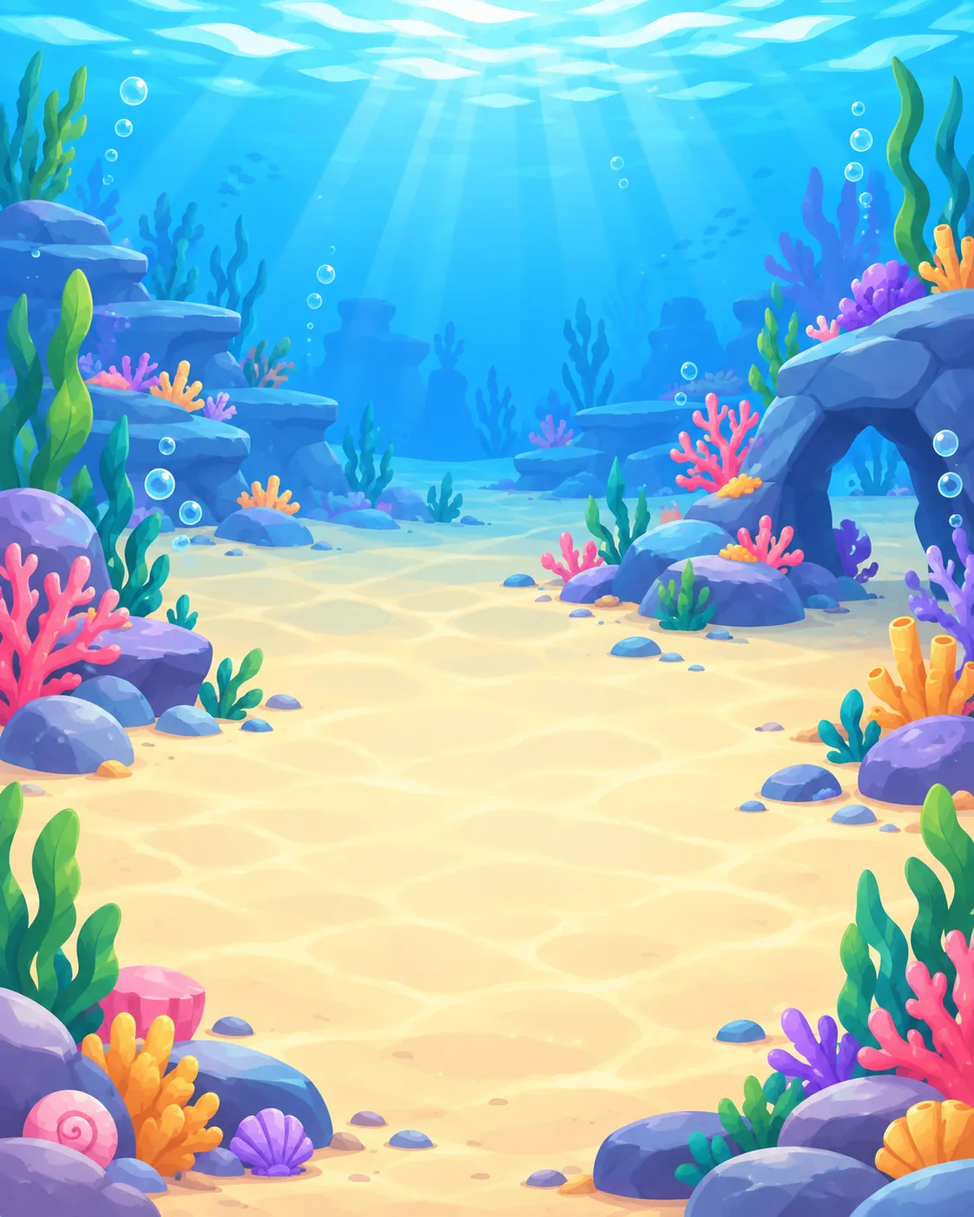
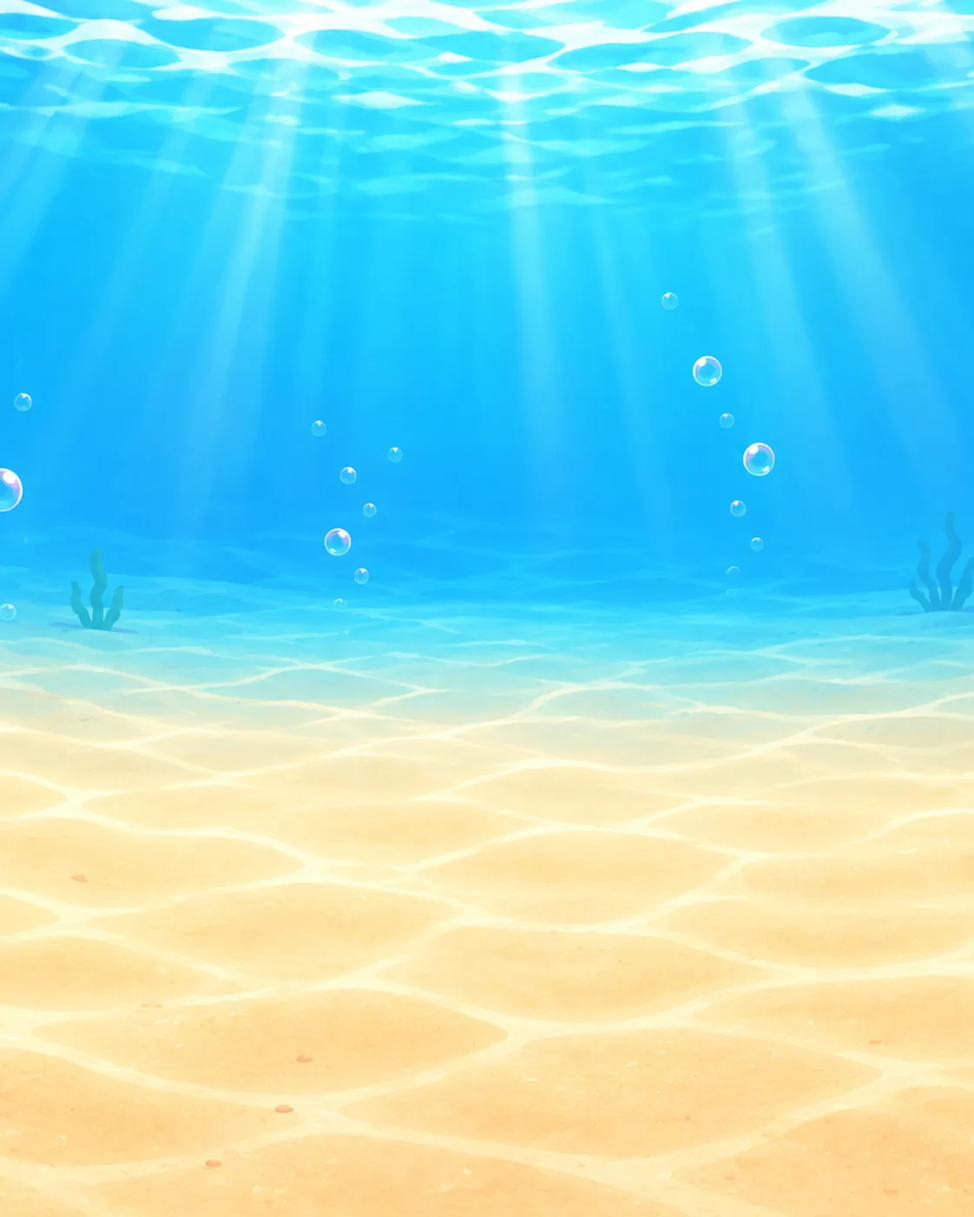
v1.24.0: fase 8C.5 (responsive, resize y usabilidad)
- 8C.5A: Phaser es la única capa que centra el canvas (padres con flex-start / text-align:left).
- 8C.5B.1: landscape bajo compacto en Diferencias, Laberinto, Mi Gatito y Adopción.
- 8C.5C / 8C.5D: Memoria (1/1) y Diferencias (4/5) recuperan su tamaño al redimensionar.
- 8C.5E: Memoria en landscape bajo (canvas 319 px en todos los niveles) y F9.
- 8C.5F: el salto de intro de Caramelo ya no pisa el primer movimiento.
- 8C.5G: nuevo fondo de Ocean, sin peces ni coral (WebP 1122x1402, source en assets-src).
- CLAUDE.md: invariantes responsive, baseline, deuda aceptada (F18) e info de git.

diff --git a/public/styles.css b/public/styles.css
@@ -72,6 +72,36 @@ html {
     align-items: center;
 }
 
+/* 8C.5A: Phaser (Scale.FIT + CENTER_BOTH) ya centra el canvas con margin-left/margin-top. El centrado del
+   padre se sumaba a esos márgenes y corría el canvas (la mitad del margen) a la derecha y hacia abajo.
+   Diferencias, Laberinto y Mi Gatito (8C.5B.1); Memoria usa el text-align de abajo. */
+#diff-game-container, #maze-game-container, #cat-game-container {
+    justify-content: flex-start;
+    align-items: flex-start;
+}
+/* 8C.5D (F3-b): mismo problema que Memoria (8C.5C). Sin alto propio, el padre medía lo que el canvas (con el
+   canvas oculto: 752x0) y FIT usaba ese alto: se achicaba con el tope del .container, pero no volvía a crecer
+   (393x491 → 255x319 → 255x319 en 1366x768). Ahora pide la proporción del canvas lógico (800x1000) sobre el
+   ancho disponible; el tope lo sigue achicando (min-height: 0, flex-shrink) igual que antes. */
+#diff-game-container {
+    aspect-ratio: 4 / 5;
+}
+#memory-game-container {
+    text-align: left; /* el canvas es inline y heredaba text-align: center de .container */
+    /* 8C.5C (F3): el padre no tenía tamaño propio. Su alto era el del canvas, y FIT medía ese alto para
+       dimensionar el canvas (dependencia circular): se achicaba con el tope de 90vh del .container, pero al
+       volver a agrandar la ventana nada pedía más alto y quedaba chico (681.6 → 222 → 237). Ahora pide un
+       cuadrado del ancho disponible (el canvas lógico es 800x800), independiente del canvas, y el flex lo
+       achica si no entra. Mismo patrón que Laberinto (height: 800px), que sí se recuperaba. */
+    width: 100%;
+    max-width: 800px;
+    aspect-ratio: 1 / 1;
+    min-height: 0;
+    display: flex;             /* sin el hueco de línea de un canvas inline */
+    justify-content: flex-start;
+    align-items: flex-start;   /* Phaser sigue siendo el único que centra (8C.5A) */
+}
+
 body {
     font-family: 'Nunito', sans-serif;
     background-color: var(--color-bg);
@@ -1740,4 +1770,77 @@ body.is-home {
     .cat-choice-card { min-height: 70px; padding: 8px 16px; }
     .cat-choice-card .card-icon { font-size: 2.5rem; }
     .cat-choice-card .card-text { font-size: 1.4rem; }
+}
+
+/* --- 8C.5B.1: ADOPCIÓN SIN DESBORDE HORIZONTAL (>= 768px) ---
+   Con `1fr` (mínimo = contenido) las cards eran más anchas que la columna y se salían del contenedor
+   (GRIS/BLANCO en 768, NEGRO en 1366). minmax(0, 1fr) las ajusta al ancho. El contenedor mide como mucho
+   800px, así que 3 columnas nunca entran: a partir de 1024 quedan 2, igual que en tablet. */
+@media (min-width: 768px) {
+    .cat-options { grid-template-columns: repeat(2, minmax(0, 1fr)); }
+}
+@media (min-width: 1024px) {
+    .cat-options { grid-template-columns: repeat(2, minmax(0, 1fr)); }
+}
+
+/* --- 8C.5B.1: LANDSCAPE BAJO (teléfono acostado) — Diferencias, Laberinto y Mi Gatito ---
+   El canvas usa FIT: su tamaño lo da el alto que queda después del header, los paddings y (en el Gatito) las
+   barras. Acá solo se compacta ese "chrome"; no cambian los canvas lógicos, el FIT ni el gameplay.
+   Pintar y Memoria no están incluidos (IDs explícitos). */
+@media (max-height: 600px) and (orientation: landscape) {
+    #game1-container, #game3-container, #game4-container {
+        max-height: calc(100vh - 16px);
+        padding: 8px 12px;
+    }
+    /* El título pasa a una línea: el JS arma "Ronda N / 10<br><span>○○○</span>" */
+    #game1-container .game-header, #game3-container .game-header, #game4-container .game-header {
+        font-size: 1.3rem;
+        line-height: 1.2;
+        margin-bottom: 6px;
+    }
+    #game1-container .game-header br, #game3-container .game-header br { display: none; }
+    #game1-container .game-header span, #game3-container .game-header span { margin-left: 0.4em; }
+
+    /* Mi Gatito: barras compactas (misma información) y angostas para no quedar bajo el botón 🏠 Menú */
+    #game4-container .cat-main { gap: 6px; }
+    #game4-container .cat-stats-horizontal {
+        max-width: 540px;
+        padding: 4px 8px;
+        gap: 6px;
+        margin-bottom: 0;
+    }
+    #game4-container .stat { padding: 2px 6px; }
+    #game4-container .stat-icon { width: 22px; height: 22px; font-size: 1rem; }
+
+    /* Adopción: se puede scrollear si no entra, y cada card vuelve a ser una sola fila. La decoración está
+       primera en el DOM con grid-column: 3, y el auto-placement mandaba ícono y texto a una segunda fila. */
+    #adoption-screen {
+        overflow-y: auto;
+        justify-content: flex-start;
+        justify-content: safe center;
+        padding: 8px 0;
+        box-sizing: border-box;
+    }
+    #adoption-screen .menu-title { margin-bottom: 8px; }
+    #adoption-screen .cat-options { gap: 12px; }
+    #adoption-screen .cat-choice-card > * { grid-row: 1; }
+}
+
+/* --- 8C.5E: LANDSCAPE BAJO — Memoria ---
+   Misma compactación que 8C.5B.1. El título es texto plano de game5.js ("🃏 🌸 Nivel N / 5  ⭐ ○ …", sin <br>)
+   con el ::after " ⭐ 🧩". A 42px (clamp 5vw) ocupaba ~81px, y desde el nivel 4 el ::after bajaba a una
+   segunda línea (~139px): el canvas quedaba en 222px (164 en nivel 4-5). Además el título arrancaba a la
+   izquierda y el 🏠 Menú tapaba su ícono (F9). A 1.3rem entra en una línea y queda centrado, lejos del botón;
+   en pantallas más angostas (667x375) el tamaño baja con el ancho para que el título siga empezando a la
+   derecha del botón. #memory-game-container (8C.5C) no cambia: el canvas crece solo porque el header ocupa menos. */
+@media (max-height: 600px) and (orientation: landscape) {
+    #game5-container {
+        max-height: calc(100vh - 16px);
+        padding: 8px 12px;
+    }
+    #game5-container .game-header {
+        font-size: clamp(1rem, 2.5vw, 1.3rem);
+        line-height: 1.2;
+        margin-bottom: 6px;
+    }
 }

diff --git a/public/game3.js b/public/game3.js
@@ -633,7 +633,8 @@ class MazeScene extends Phaser.Scene {
         this.companionSprites = new Map();
         this.isMoving = false;
         this.inputLocked = true;
-        
+        this.introHopTween = null;
+
         if(levelTitle3) {
             const stars = '⭐'.repeat(currentMazeLevel) + '○'.repeat(6 - currentMazeLevel);
             levelTitle3.innerHTML = `${this.theme.wall} ${this.theme.name} <br><span style="font-size: 0.6em; letter-spacing: 2px;">${stars}</span>`;
@@ -949,7 +950,10 @@ class MazeScene extends Phaser.Scene {
                 } else {
                     speakMaze(this.mission.instruction.speech);
                 }
-                this.tweens.add({ targets: this.dogObj, y: this.dogObj.y - 10, duration: 200, yoyo: true, repeat: 1 });
+                this.introHopTween = this.tweens.add({
+                    targets: this.dogObj, y: this.dogObj.y - 10, duration: 200, yoyo: true, repeat: 1,
+                    onComplete: () => { this.introHopTween = null; }
+                });
                 this.resetHintTimers();
             }
         });
@@ -1067,7 +1071,18 @@ class MazeScene extends Phaser.Scene {
         }
     }
     
+    // 8C.5F: el salto de la intro es decorativo y anima `y` con valores absolutos de la celda de inicio (800 ms).
+    // El input ya está habilitado mientras dura, así que si Sofi toca antes se corta y Caramelo vuelve al centro
+    // de su celda lógica. Si no, al terminar el movimiento el salto lo devolvía a la fila de inicio.
+    cancelIntroHop() {
+        if (!this.introHopTween) return;
+        this.introHopTween.stop();
+        this.introHopTween = null;
+        this.dogObj.y = this.dogPos.r * this.cellSize + this.cellSize / 2;
+    }
+
     bumpDog(r, c) {
+        this.cancelIntroHop();
         this.tweens.add({
             targets: this.dogObj,
             x: this.dogObj.x + (c > this.dogPos.c ? 10 : (c < this.dogPos.c ? -10 : 0)),
@@ -1078,7 +1093,8 @@ class MazeScene extends Phaser.Scene {
 
     moveDogTo(r, c) {
         this.isMoving = true;
-        
+        this.cancelIntroHop();
+
         let prevDogPos = { r: this.dogPos.r, c: this.dogPos.c };
         let prevDogXY = { x: this.dogObj.x, y: this.dogObj.y };
         

diff --git a/public/app-core.js b/public/app-core.js
@@ -56,7 +56,7 @@ Object.values(SOFI_GUIDE_ASSETS).forEach(src => {
 });
 
 window.SofiApp = {
-    version: 'v1.23.0',
+    version: 'v1.24.0',
     profile: {
         name: 'Sofi'
     },

diff --git a/CLAUDE.md b/CLAUDE.md
@@ -1,6 +1,6 @@
 # Juegos Sofi
 
-Contexto operativo para Claude Code. Auditado contra el código el 2026-09-28 (versión `v1.23.0`, tras 8C.4).
+Contexto operativo para Claude Code. Auditado contra el código el 2026-09-29 (versión `v1.24.0`, tras 8C.5).
 Historial de fases y contexto previo: `GEMINI.md` (histórico, puede estar desactualizado).
 
 ## Project Overview
@@ -13,7 +13,7 @@ Textos y voz en español rioplatense (`es-AR`). SPA estática sin build step, ho
 **Código actual > `GEMINI.md` / skills > suposiciones.**
 - Si la documentación contradice el código, NO modificar el código para que coincida: preservar el comportamiento y reportar la diferencia.
 - No documentar ni asumir arquitectura que no se pueda verificar en el código.
-- No hay repositorio git: no hay historial ni rollback. Ser conservador con cambios destructivos.
+- **Git:** el proyecto es un repo git (rama de trabajo `main`, con remoto `origin`). Antes de modificar, correr `git status` / `git diff --stat`: puede haber cambios sin commitear de fases anteriores. No revertirlos ni descartarlos (`reset`, `checkout`, `restore`, `clean`, `stash`) sin pedido explícito, y no commitear ni pushear sin pedido.
 
 ## Architecture
 
@@ -55,6 +55,8 @@ No productivos (no tocar sin pedido): `scratch_*.js` y los PNG de referencia en 
   - **Visual (8C.3):** `MEMORY_ASSETS` (`memory-bg.webp`, `memory-card-back.webp`, `memory-card-front.webp` en `public/assets/backgrounds/memory/`), cargados en `MemoryScene.preload()` con guarda `textures.exists`. Fondo: imagen 800x800 en profundidad -10 (el color de cámara del tema queda como fallback). Dorso y frente: `image.setDisplaySize(size)` en lugar de los `Graphics`; el `coverIcon` y el emoji siguen encima. Emparejada: `showCardMatchedVisual()` → `setAlpha(0.7)` en la imagen (o el redibujo legacy si es `Graphics`). Si falta una textura, se usa el `Graphics` legacy. Los paneles de `visualRecall` / `sequenceRecall` y `FinalMemoryScene` no cambiaron.
 - **Diferencias ("encontrá el distinto", no dos imágenes):** canvas 800x1000 FIT. Presentaciones `grid` / `memory` / `pattern` (casillas `rectangle` `#f0f0f0`, que son también la capa de feedback: verde `a5d6a7` al acertar, amarillo `fff9c4` al errar) y `scene` (park / ocean / space, con objetos en posiciones fijas y un círculo de toque transparente de `hitSize` 130–140).
   - **Visual (8C.3):** `DIFF_BACKGROUNDS` (`public/assets/backgrounds/differences/`); `preload()` carga solo el fondo de la ronda actual (`getBackgroundConfig()`). `diff-bg.webp` en grid / memory / pattern (profundidad -20, sin interacción; el blanco queda como fallback). En `createSceneLevel`, `addBackgroundImage()` y, si hay fondo, se omite **solo** la decoración emoji de profundidad negativa; posiciones, `hitSize` y objetos no cambian. Sin textura: escena legacy completa (nunca ambas). **Space activado en v1.22.2** con un fondo regenerado sin planetas, lunas ni estrellas grandes, para que no compita con los distractores 🪐 🌙 ⭐ de `cat-space` (se había desactivado en v1.22.0 por eso). Si se regenera, mantener esa restricción.
+  - **Regla de fondos de escena:** no pueden tener nada que se confunda con un símbolo de juego (peces, siluetas de peces, pulpos, vehículos, planetas…) ni objetos grandes junto a las posiciones de los objetos. Centro despejado, decoración mínima y en la periferia.
+  - **Ocean (8C.5G):** fondo nuevo, solo agua, arena, rayos de luz, burbujas y algas chicas en los costados (sin peces, coral ni rocas). Entregado en 1536x1024 (3:2): se usó el **recorte central 4:5** (819x1024) escalado a 1122x1402, q82 (`magick src -gravity center -crop 819x1024+0+0 +repage -filter Lanczos -resize 1122x1402! -strip -quality 82 -define webp:method=6 out.webp`, ~50 KB; el mismo q82 reproduce byte a byte `diff-scene-park.webp`). Source: `assets-src/differences/diff-scene-ocean.source.png`. Los fondos se dibujan con `setDisplaySize(800,1000)`: un asset que no sea 4:5 se deforma. Contraste medido (ΔE de borde): 🐟 en el agua 22–39 (el más débil, legible por contorno y ojo), 🐡 sobre la arena ~27 (igual que el fondo anterior); 🚗 (la respuesta) 60–78 en todas las posiciones.
 
 ## SofiApp
 
@@ -77,6 +79,35 @@ Otras claves de localStorage: `juegosSofi_game1_adventure_v1`, `juegos-sofi-pain
 - Todos los timers se limpian en `onHomeExit` (`stopAmbient`, `stopHomeDiscoveries`, `hideBubble`, `resetGuideState`).
 - **NO reconstruir el Home durante tareas visuales pequeñas.** Preservar: scroll vertical mobile natural, dimensiones de cards, navegación, touch targets, sin overflow horizontal, sin scroll interno en `.menu-grid`, sin `overflow-y` bloqueado globalmente.
 - `.game-card` (Home), `.drawing-card` / `.selection-card` (Pintar), `.cat-choice-card` (Gatito) son componentes distintos: no compartir geometría.
+
+## Responsive Invariants (8C.5)
+
+Todo en `styles.css`. Los canvas lógicos, `Scale.FIT` y `CENTER_BOTH` no cambian.
+- **Un solo centrado (8C.5A):** Phaser (`FIT` + `CENTER_BOTH`) es la **única** capa que centra el canvas (con `margin-left/top`). Los padres `#diff-game-container`, `#maze-game-container` y `#cat-game-container` usan `justify-content/align-items: flex-start`; `#memory-game-container` usa `text-align: left` (el canvas es inline). Centrar también el padre corría el canvas medio margen. No volver a centrar el padre.
+- **El padre de un canvas `FIT` necesita tamaño propio (8C.5C / 8C.5D):** si su alto sale del contenido, el alto depende del canvas y el canvas del alto (dependencia circular): se achica al bajar la ventana y **no vuelve a crecer**. Por eso:
+  - `#memory-game-container`: `width: 100%; max-width: 800px; aspect-ratio: 1 / 1; min-height: 0; display: flex` (canvas 800x800).
+  - `#diff-game-container`: `aspect-ratio: 4 / 5` (canvas 800x1000; **no** usar 1/1). Con `min-height: 0` y `flex-shrink` el tope del `.container` lo sigue achicando.
+  - Laberinto (`height: 800px`) y Mi Gatito (`height: 600px`) ya tenían alto propio.
+  - No sacar esas reglas. Un canvas `FIT` nuevo debe tener un padre con tamaño propio.
+- **Landscape bajo (8C.5B.1 / 8C.5E):** `@media (max-height: 600px) and (orientation: landscape)`, con selectores explícitos:
+  - `#game1-container`, `#game3-container`, `#game4-container`: `max-height: calc(100vh - 16px)`, `padding: 8px 12px`, título a 1.3rem en una línea (`br` oculto), barras del Gatito compactas.
+  - `#game5-container` (Memoria): el mismo tope y padding, título `clamp(1rem, 2.5vw, 1.3rem)` en una línea en todos los niveles. Así el nivel 4/5 no achica el canvas y el título queda a la derecha del 🏠 Menú (F9). No sacar estrellas ni texto.
+  - Adopción (`#adoption-screen`): scrolleable, `safe center`, cards en una fila de grilla. Desde 768 px, `.cat-options` usa `repeat(2, minmax(0, 1fr))` (antes desbordaba en 1366).
+  - Pintar tiene su propia regla (`safe center`, 8C.4.0) y el Home no se toca. No copiar estas reglas globalmente.
+
+Baseline medido el 2026-09-29 (CSS px; aventura en el nivel 1):
+
+| Pantalla | 390x844 | 430x932 | 844x390 | 768x1024 | 1366x768 |
+|---|---|---|---|---|---|
+| Diferencias | 322.5x403.1 | 360.5x450.6 | **255.2x319** | 598.1x747.6 | 392.9x491.2 |
+| Laberinto | 322.5x370.9 | 360.5x414.6 | **277.4x319** | 648.3x745.6 | 424.5x488.2 |
+| Mi Gatito | 322.5x201.6 | 360.5x225.3 | **422.5x264** | 681.6x426 | 710.7x444.2 |
+| Memoria | 322.5 | 360.5 | **319** (niveles 1–5) | 681.6 | 488.2 |
+| Pintar (`#drawing-area`) | 322.5 | 360.5 | 737 (scroll, `safe center`) | 666.6 | 737 |
+| Adopción (alto de card) | 160, 1 col | 160, 1 col | **77, 2x2** | 160, 2 col | 160, 2 col |
+
+- **Resize:** el tamaño final depende solo del viewport actual, en la misma instancia y partida. Diferencias 392.9 → 255.2 → 392.9 (1366 → 844 → 1366); Memoria 681.6 → 319 → 681.6 (768 → 844 → 768).
+- **Scroll:** 0 scroll horizontal del documento en todas las pantallas. El Home tiene scroll vertical natural.
 
 ## Painting — Critical Architecture
 
@@ -128,6 +159,8 @@ Otras claves de localStorage: `juegosSofi_game1_adventure_v1`, `juegos-sofi-pain
 - `getMazePath(start, end, layout, blocked)`: BFS en grilla. Solo lo usa el hint.
 - Hints (`resetHintTimers`): 10 s → pulso sobre el objetivo; 20 s → voz; 30 s → **un único** `🐾` (texto Phaser de 40 px) en la siguiente celda del camino BFS, con fade in/out y destroy. Idle a los 6 s → Caramelo `thinking` + `❓`.
 - Rastro de movimiento: en cada paso, con 50% de probabilidad, un `🐾` de texto de 20 px con alpha 0.5 que se desvanece en 800 ms y se destruye.
+- **Salto de la intro (8C.5F):** al terminar `showLevelIntro()` se habilita el input y Caramelo salta (tween de `y`, valores absolutos, 800 ms). Se guarda en `this.introHopTween` (`init()` lo pone en `null`; `onComplete` también). `cancelIntroHop()` lo corta y deja a Caramelo en el centro de su celda lógica; se llama al principio de `moveDogTo()` y de `bumpDog()`. **`dogPos` es la fuente de verdad:** un tween decorativo no puede pisar una posición posterior. Antes, un toque temprano movía `dogPos` pero el salto devolvía el sprite a la fila de inicio. El toque temprano sigue permitido (sin bloqueo nuevo). **No usar `this.events` en `MazeScene`:** `init()` lo pisa con `this.levelData.events`.
+- **Toque (8C.5H):** cada celda es una `zone` del tamaño completo de la celda, contiguas. Un toque que cae fuera de la celda buscada casi siempre cae en una celda no adyacente o en la propia y se ignora (solo suena el tap): con dispersión simulada no hubo **ningún** movimiento a una celda equivocada. Tolerancia: ±½ celda en línea recta. Un toque durante el movimiento (250 ms) se ignora (`isMoving`).
 - `FinalCelebrationScene` usa el emoji `🐶`, no el sprite de Caramelo (estado actual; no cambiarlo sin pedido).
 
 ## Mi Gatito
@@ -139,7 +172,7 @@ Otras claves de localStorage: `juegosSofi_game1_adventure_v1`, `juegos-sofi-pain
 - Cuidados: `startCareActivity(type)` → `setupEat/Play/Bath/Drink/SleepActivity` → `finishCareActivity` → `applyCareResult` → `recordCatCareAction()`.
 - Recuerdos: `CAT_MEMORIES` (15), `unlockCatMemory(id)`, álbum (`openMemoryAlbum` / `closeMemoryAlbum`), toasts en cola.
 - `onExit`: destroy de Phaser, `clearInterval(decayInterval)`, `speechSynthesis.cancel()`.
-- Canvas lógico 800x500 (16:10), `Scale.FIT` + `CENTER_BOTH`, cámara fija, sin recortes (solo franjas vacías). Escala real: 390x844 → 0.40, 430x932 → 0.45, **844x390 → 0.22 (179x112)**, 768x1024 → 0.85, 1366x768 → 0.89.
+- Canvas lógico 800x500 (16:10), `Scale.FIT` + `CENTER_BOTH`, cámara fija, sin recortes (solo franjas vacías). Escala real: 390x844 → 0.40, 430x932 → 0.45, **844x390 → 0.53 (422.5x264, desde 8C.5B.1; antes 0.22)**, 768x1024 → 0.85, 1366x768 → 0.89.
 - Capas: color de cámara < `zoneContainer` (profundidad 0: fondo, overlay de noche, suelo legacy, objetos, objetos temporales) < `cat` < hint/reaction < partículas < `navContainer` (50) < actividad de cuidado (100) < toast (200) < álbum (300) < detalle (310).
 - Movimiento libre: `this.input.on('pointerdown')` solo camina si `targets.length === 0`, con límites x 100–700, y 320–480. **Nada decorativo puede usar `setInteractive`.**
 - **Escenarios (8C.1):** `CAT_ZONE_BACKGROUNDS` (zona → `{key, path, night}`) se carga en `preload()`. `addZoneBackground(zoneKey, isNight)` agrega el PNG como **primer hijo** de `zoneContainer` (`setOrigin(0,0)`, `setDisplaySize(800,500)`, **no interactivo**) y, si `isNight`, un rectángulo translúcido como segundo hijo (room/garden `0x1a237e` a 0.28/0.30; playground `0x4a2c6d` a 0.24). Con fondo, `buildZone` no dibuja el rectángulo de suelo legacy. **Fallback:** si la textura no existe, se usa el escenario legacy completo. La regla `isNight` (18–6 h) no cambió. La ventana de Room (vidrio, marco, ☀/🌙), la alfombra, los objetos de cuidado, `WORLD_OBJECTS`, sol/luna/estrellas del jardín y todos los eventos siguen siendo Phaser por encima del fondo.
@@ -209,11 +242,22 @@ Integración actual verificada:
 
 ## Current Phase
 
+- **8C.5** (responsive, resize y usabilidad): **cerrada y desplegada en v1.24.0** (checkpoint 2026-09-29).
+  - **A:** un solo centrado del canvas.
+  - **B.1:** landscape bajo en Diferencias, Laberinto, Mi Gatito y Adopción.
+  - **C:** recuperación de tamaño de Memoria al redimensionar.
+  - **D:** lo mismo en Diferencias.
+  - **E:** landscape bajo de Memoria + F9.
+  - **F:** carrera del salto de Caramelo.
+  - **G:** fondo de Ocean (F5).
+  - **H:** auditoría de F18, aceptada con deuda.
+  - Detalle en Responsive Invariants, Diferencias, Maze y Known Issues.
+  - **8D:** no definida; no empezar sin pedido.
 - **8A** (personajes propios): completada. Guía integrado en el Home; Caramelo integrado en el Laberinto.
 - **8B.1** (5 iconos de juegos): completada.
 - **8B.2A** (`icon-star`): completada.
 - **8B.2B** (`icon-heart`, `icon-flower`, `icon-paw`): **completada (v1.18.0).** Auditoría completa de usos: los persistentes ya estaban integrados (stickers, cards del Home, "Mimos"). El único uso nuevo migrado es el decor ❤ de la card NARANJA de adopción. Flower y paw no tenían usos persistentes pendientes; todo lo demás es texto, efímero o gameplay y queda como emoji.
-- **8C.3** (Memoria + Diferencias): **implementada (v1.22.0)**; el fondo de Space se reactivó en v1.22.2. Memoria: fondo + dorso + frente. Diferencias: fondo general + Park + Ocean. Validado: aventuras completas de Memoria (3 tipos de ronda) y de Diferencias (10 rondas, sorpresas, hitos, final), con el mismo feedback que la línea base, fallback con 404 reales y las 5 resoluciones. La 8C.4 no está definida: no empezar sin pedido.
+- **8C.3** (Memoria + Diferencias): **implementada (v1.22.0)**; el fondo de Space se reactivó en v1.22.2. Memoria: fondo + dorso + frente. Diferencias: fondo general + Park + Ocean. Validado: aventuras completas de Memoria (3 tipos de ronda) y de Diferencias (10 rondas, sorpresas, hitos, final), con el mismo feedback que la línea base, fallback con 404 reales y las 5 resoluciones.
 - **8C.4** (ambientación de Pintar): **completa y desplegada en v1.23.0.** Tiene 2 partes:
   - 8C.4.0: fix responsive.
   - 8C.4B: patrón de fondo y marco inset (ver Painting → Ambientación).
@@ -239,7 +283,7 @@ Integración actual verificada:
 
 ## Validation
 
-Baseline (2026-09-28): todos pasan.
+Baseline (2026-09-29): los 8 JS pasan.
 
 ```bash
 for f in public/*.js; do node --check "$f" || echo "FAIL $f"; done
@@ -247,17 +291,25 @@ for f in public/*.js; do node --check "$f" || echo "FAIL $f"; done
 
 Browser: servir `public/` en la raíz (las rutas `/assets/...` son absolutas), por ejemplo `firebase serve` / `firebase emulators:start --only hosting` o cualquier servidor estático con raíz en `public/`. Esperado: 0 errores de consola (SyntaxError, ReferenceError, TypeError, Phaser, 404 de assets), sin timers fantasma y navegación completa ida y vuelta a cada juego.
 
-Responsive a validar: `390x844`, `430x932`, `844x390`, `768x1024`, `1366x768`, con foco en Home, Mis Cosas, Pintar y las pantallas modificadas. Sin scroll horizontal; Home con scroll vertical natural.
+Responsive a validar: `390x844`, `430x932`, `844x390`, `768x1024`, `1366x768` (y `932x430` si se toca el landscape). Pantallas: Home, Mis Cosas, Diferencias, Pintar, Laberinto, Adopción, Mi Gatito y Memoria. Comparar contra la tabla de Responsive Invariants. Sin scroll horizontal (probarlo con `scrollTo(200, 0)` y leer `scrollX`, porque `scrollWidth` puede marcar de más por partículas transitorias del Home). El Home tiene scroll vertical natural.
 
 Logs esperados en consola (no son errores): `Maze variants: …`, `[Painting] …`, y `CAT_MEMORIES validados` en localhost.
-Errores de consola PREEXISTENTES en cada carga (baseline 2026-09-28; no son regresiones): `[Maze Validation] Variant beach-b|snow-b|night-a|magic-a|magic-b is unsolvable` (5 de 12, falsos negativos del validador; ver Known Issues) y `Not enough symbols in visual: v-vehicles-5|v-sky-5|v-nature-5`. Comparar contra este baseline.
+Errores de consola PREEXISTENTES en cada carga (baseline 2026-09-28, igual el 2026-09-29; no son regresiones): `[Maze Validation] Variant beach-b|snow-b|night-a|magic-a|magic-b is unsolvable` (5 de 12, falsos negativos del validador; ver Known Issues) y `Not enough symbols in visual: v-vehicles-5|v-sky-5|v-nature-5`. Comparar contra este baseline.
 
 Servidor local: `.claude/launch.json` → `juegos-sofi-local` (`firebase serve --only hosting --port 5050`). Tras editar CSS/HTML, recargar sin caché (el navegador cachea `styles.css`).
+
+Trampas conocidas del entorno de prueba (no son bugs de la app):
+- **Arranque del servidor:** si la página abre antes de que `firebase serve` esté listo, `styles.css` falla (`ERR_CONNECTION_REFUSED`, status 0) y todas las vistas se ven a la vez. Recargar.
+- **Pestaña oculta:** usar el reloj virtual descripto en Known Issues. `headlessStep` no renderiza: para una captura, avanzar con `game.step()` (la primera captura puede mostrar el frame anterior).
+- **Esperas:** en Diferencias, Laberinto y Memoria el título del header se fija en `init()` / `create()`, y los assets cargan en tiempo real. Medir el canvas recién después de que la escena esté corriendo, o el tamaño sale del header viejo.
+- **Globales `let`:** `catState`, `game1Instance`, `currentMazeLevel`… no son `window.*`. Leerlas por nombre o con `(0, eval)('catState')`.
+- **Adopción:** para volver a verla, borrar `juegosSofi_gatito` y poner `catState.adopted = false`.
+- **Datos:** el harness debe guardar y restaurar `localStorage`. "Reiniciar" en Pintar borra el progreso del dibujo.
 
 ## Versioning / Deploy
 
 Fuente: `.agents/skills/juegos-sofi-versioning/SKILL.md`.
-- La versión está en `public/app-core.js` → `SofiApp.version` (hoy `v1.23.0`); se renderiza sola en el Home.
+- La versión está en `public/app-core.js` → `SofiApp.version` (hoy `v1.24.0`); se renderiza sola en el Home.
 - Formato `vMAJOR.MINOR.PATCH`: MAJOR = cambio de framework o estructura; MINOR = fase nueva o minijuego nuevo; PATCH = bugfix o mejora visual pequeña.
 - Cada deploy a Firebase debe incrementar la versión. Informar al usuario el número nuevo.
 - Deploy: `firebase deploy` (Hosting, proyecto `gaming-eb091`). **Solo cuando el usuario lo pida explícitamente**; es una acción externa.
@@ -283,7 +335,6 @@ No hacer refactors, cambios de gameplay, ediciones a `GEMINI.md` ni deploys sin 
 ## Known Issues / Tech Debt (no corregidos)
 
 - Mi Gatito: `WORLD_OBJECTS` define `window` y `yarn_dec` para Room, pero `buildZone('room')` nunca los construye. 6 recuerdos (`butterfly`, `bird`, `ladybug`, `firefly`, `box-surprise`, `moon-window`) no tienen ningún `unlockCatMemory`. `initiativeState.active` nunca se pone en `true`: el sistema de iniciativas existe pero nunca se dispara.
-- Mi Gatito en 844x390: el canvas se ve a 179x112 (escala 0.22), por la altura fija de 600px del contenedor y FIT (ya pasaba antes de 8C.1).
 - Fondos de Mi Gatito: peso resuelto en v1.21.2 (WebP, ~174 KB). Siguen apartándose de la especificación de 8C.1: horizonte en ~58%, suelo naranja en Room (🐈 contrasta poco de día), flores y arbustos en primer plano en Garden y Playground, y una estantería detrás de 🛁.
 - `playTone` se invoca en `game2.js` y `game3.js` (protegido con `typeof playTone === 'function'`), pero no está definido en ningún archivo: esos tonos nunca suenan.
 - **Resuelto en v1.21.3 (Pintar):** la instancia no se destruía al volver al Home; los listeners del transform layer y de los botones Libre/Guía se acumulaban entre sesiones (cada toque se procesaba una vez por escena vieja y pintaba con el color viejo); la celebración quedaba tapada por el dibujo; y bitsy y sparks no se podían completar (4 y 5 regiones tapadas; ahora 30 regiones cada uno). Copia de los archivos previos en `assets-src/code-backup-v1.21.2/`.
@@ -303,13 +354,47 @@ No hacer refactors, cambios de gameplay, ediciones a `GEMINI.md` ni deploys sin 
 - Validación en el browser con la pestaña oculta: Phaser baja a ~3 fps y `destroy(true)` (diferido) puede dejar un canvas viejo unos instantes. Para tests automáticos: detener `game.loop` y avanzar con `game.headlessStep()`, con el `TweenManager.getDelta` parcheado en la página de prueba (en 3.60 los tweens usan reloj real) y yields por `MessageChannel`.
 - v1.22.0 salió sin los assets de Memoria (la carpeta quedó vacía por un movimiento de archivos externo); se restauraron y publicaron en v1.22.1.
 - Assets de 8C.3: resuelto en v1.22.2 (WebP real). Los 39 PNG legacy de `public/assets/` se borraron en v1.23.0 (~13 MB), después de verificar que ningún archivo los referenciaba y que cada uno tenía una copia idéntica en `assets-src/originals-v1.22/`. `public/` ya no tiene ningún `.png`.
-- **Ocean (8C.3):** el fondo tiene cardúmenes de peces lejanos (siluetas, y≈100–240) y mucho coral junto a los objetos; 🐟 (azul) contrasta poco con el agua. Se juega bien, pero conviene suavizarlo si se regenera. El frente de carta de Memoria tiene ~5% de margen transparente (el dorso ~1%): al girar se ve un poco más chico. La carta emparejada (alpha 0.7) se distingue poco de una abierta a 34 px.
-- **`#memory-game-container` sin CSS:** el canvas de Memoria solo se achica al rotar o redimensionar, y no vuelve a crecer hasta volver a entrar al juego (ya pasaba antes de 8C.3).
+- Memoria: el frente de carta tiene ~5% de margen transparente (el dorso ~1%): al girar se ve un poco más chico. La carta emparejada (alpha 0.7) se distingue poco de una abierta a 34 px.
 - La decoración aleatoria del Laberinto (30% de las celdas libres, profundidad -1) queda debajo del rectángulo opaco de su celda (profundidad 0), así que **nunca se ve**. Si se sube su profundidad, puede tapar los caminos.
-- Laberinto en 844x390: canvas 143x164 (escala 0.18); en 7x7 las celdas miden ~20px y Caramelo ~16px.
 - `.cat-choice-card .card-decor` (hoy solo el emoji ⭐ de GRIS) tiene `pointer-events: auto`, y el listener de adopción lee `e.target.getAttribute('data-cat')`: un toque justo sobre esos decor adopta con `emoji = null` (**verificado en el browser** con ⭐ de GRIS: el gato queda sin representación). NARANJA, NEGRO y BLANCO ya no lo tienen (sus img usan `pointer-events: none`); GRIS sigue afectada.
-- En 1366x768 las `.cat-choice-card` (3 columnas) desbordan el contenedor de adopción a la derecha (ya pasaba antes de 8B.2B). La card NEGRO queda parcialmente recortada por `#game4-container { overflow: hidden }`: su decor no se ve ni se puede tocar.
 - Los stickers `arcoiris` y `flor` están en `stickersConfig`, pero ningún juego llama `unlockSticker` con esos IDs: hoy son imposibles de desbloquear.
 - Muchos `console.log` de debug en Pintar.
 - CSS legacy posiblemente sin uso (fases 7/8) y abundante estilo inline en `index.html` (Pintar).
-- Sin control de versiones (git).
+
+### Resuelto en 8C.5
+
+F1 doble centrado · F2 Diferencias en landscape bajo · F3 Memoria no recuperaba tamaño · F3-b Diferencias no recuperaba tamaño · F4 cards de adopción recortadas o desbordadas · F5 Ocean ambiguo (peces y coral en el fondo) · F9 🏠 Menú tapaba el título de Memoria · carrera del salto de intro de Caramelo · Mi Gatito y Laberinto chicos en 844x390 (0.22 / 0.18 → 0.53 / 0.35). F16 (la documentación decía que no había git) se corrigió en este archivo.
+
+### Deuda aceptada (no corregir sin pedido)
+
+- **F18, Laberinto en landscape bajo: ACEPTADO CON DEUDA; no bloquea 8D.**
+  - En 844x390 la celda 7x7 mide ≈39.6 px (≈6.6 mm en un iPhone), 6x6 46.2 y 5x5 55.5; en portrait 390 el 7x7 mide 46.1.
+  - Con toques imprecisos simulados, parte se ignora (7x7, σ 12 px: 83% aciertos; σ 18 px: 45%). Nunca movió a una celda equivocada.
+  - Confirmar con Sofi en el dispositivo.
+  - Opción futura de menor riesgo (solo CSS en landscape bajo): título al costado del canvas + menos margen y padding, ≈46.5 px por celda.
+  - Observaciones: los íconos del HUD miden ~8 px; la 🐾 de la pista se dibuja sobre el objetivo cuando el próximo paso es el objetivo; 💡 marginal; 🦴 sobre la nieve con poco contraste.
+- **Pintar:**
+  - F6: la primera entrada a Guía oculta el Original.
+  - F7: Ayuda no deja el resaltado.
+  - `focusRegion` no centra con precisión.
+  - La posición de scroll se conserva entre visitas.
+  - `pointercancel` pinta.
+  - Detalle en "Pendiente (Pintar)".
+- **Voz:**
+  - F8: la voz puede seguir después de salir de un juego.
+  - A futuro: un `SofiApp.voice` con audio grabado primero y TTS de fallback (inventario en `docs/voice-audit.csv`, sin trackear).
+  - F15: mezcla de "quieres" / "querés" en los textos.
+- **Laberinto:**
+  - F11: los símbolos decorativos de algunos tiles (estrellas en la pared de Noche, estrellita en la roca de Playa) pueden confundirse con objetivos.
+  - F12: `walk-4` nunca se ve (el paso dura 250 ms y el cuadro 100 ms).
+  - F13: falsos negativos del validador (ver arriba).
+  - `preload()` chequea `textures.exists` pero no las cargas en curso: reiniciar la escena antes de que terminen da "Texture key already in use".
+  - Los demás saltos de Caramelo (recolección −15 px, llegada −20 px) también usan valores absolutos. Hoy corren con el input bloqueado.
+- **Mi Gatito:**
+  - F10: transparencia en la adopción.
+  - F17: objetos decorativos.
+  - Además, lo ya listado arriba.
+- **General:**
+  - F14: pedidos repetidos de texturas ya cacheadas.
+  - Phaser `VisibilityHandler` deja **+1 listener `visibilitychange`** en `document` por cada juego abierto y cerrado (medido 6 en 6 ciclos).
+  - Sin probar: landscape angosto (< ~640 px de ancho, ahí el título puede volver a tocar el 🏠) y `orientationchange` real en un dispositivo (solo se emuló el viewport).
